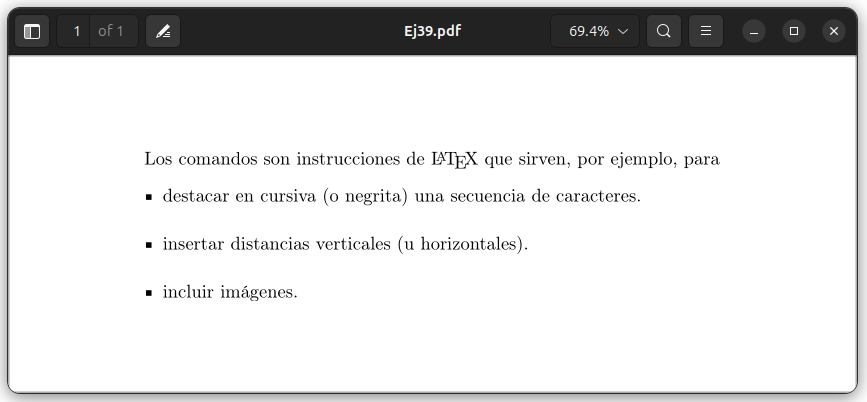
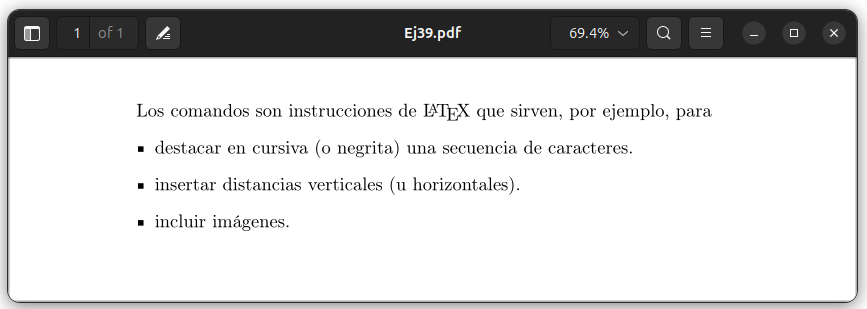
Libro: update example 39

diff --git a/wiki/Libro-latex-con-palabras-clave/Ejemplos/Ej39.tex b/wiki/Libro-latex-con-palabras-clave/Ejemplos/Ej39.tex
@@ -8,7 +8,7 @@
 \begin{document}
 
 Los comandos son instrucciones de \LaTeX{} que sirven, por ejemplo, para
-\begin{itemize} \itemsep=10pt
+\begin{itemize} 
 \item destacar en cursiva (o negrita) una secuencia de caracteres.
 \item insertar distancias verticales (u horizontales).
 \item incluir imágenes.
